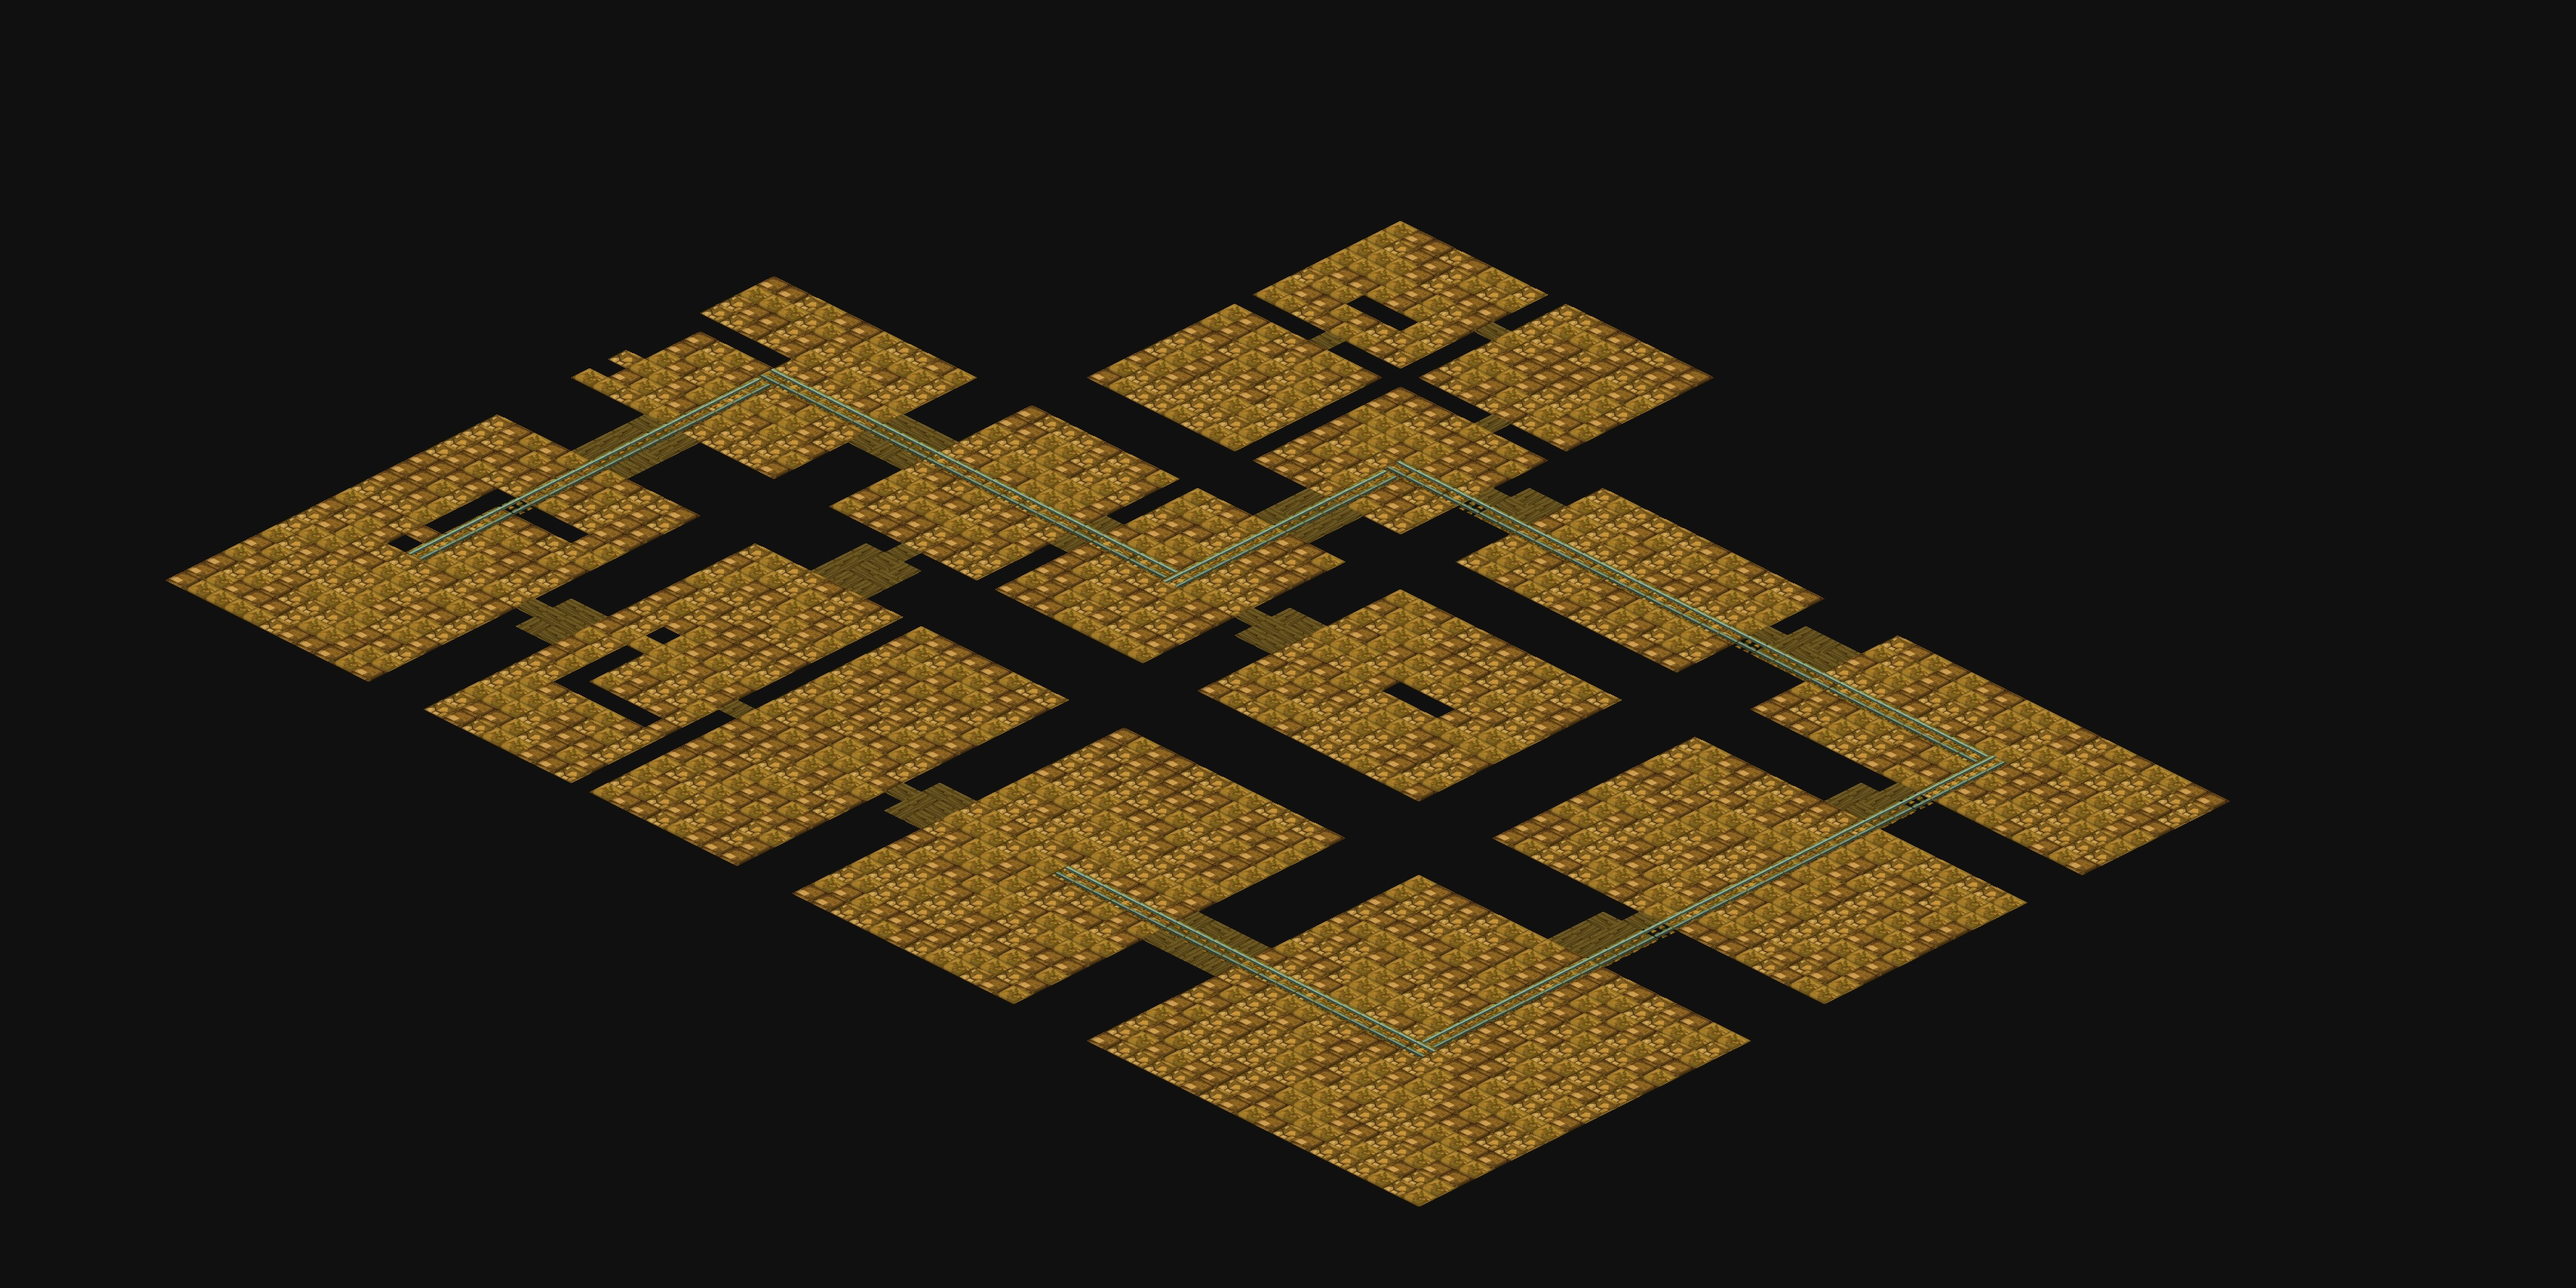
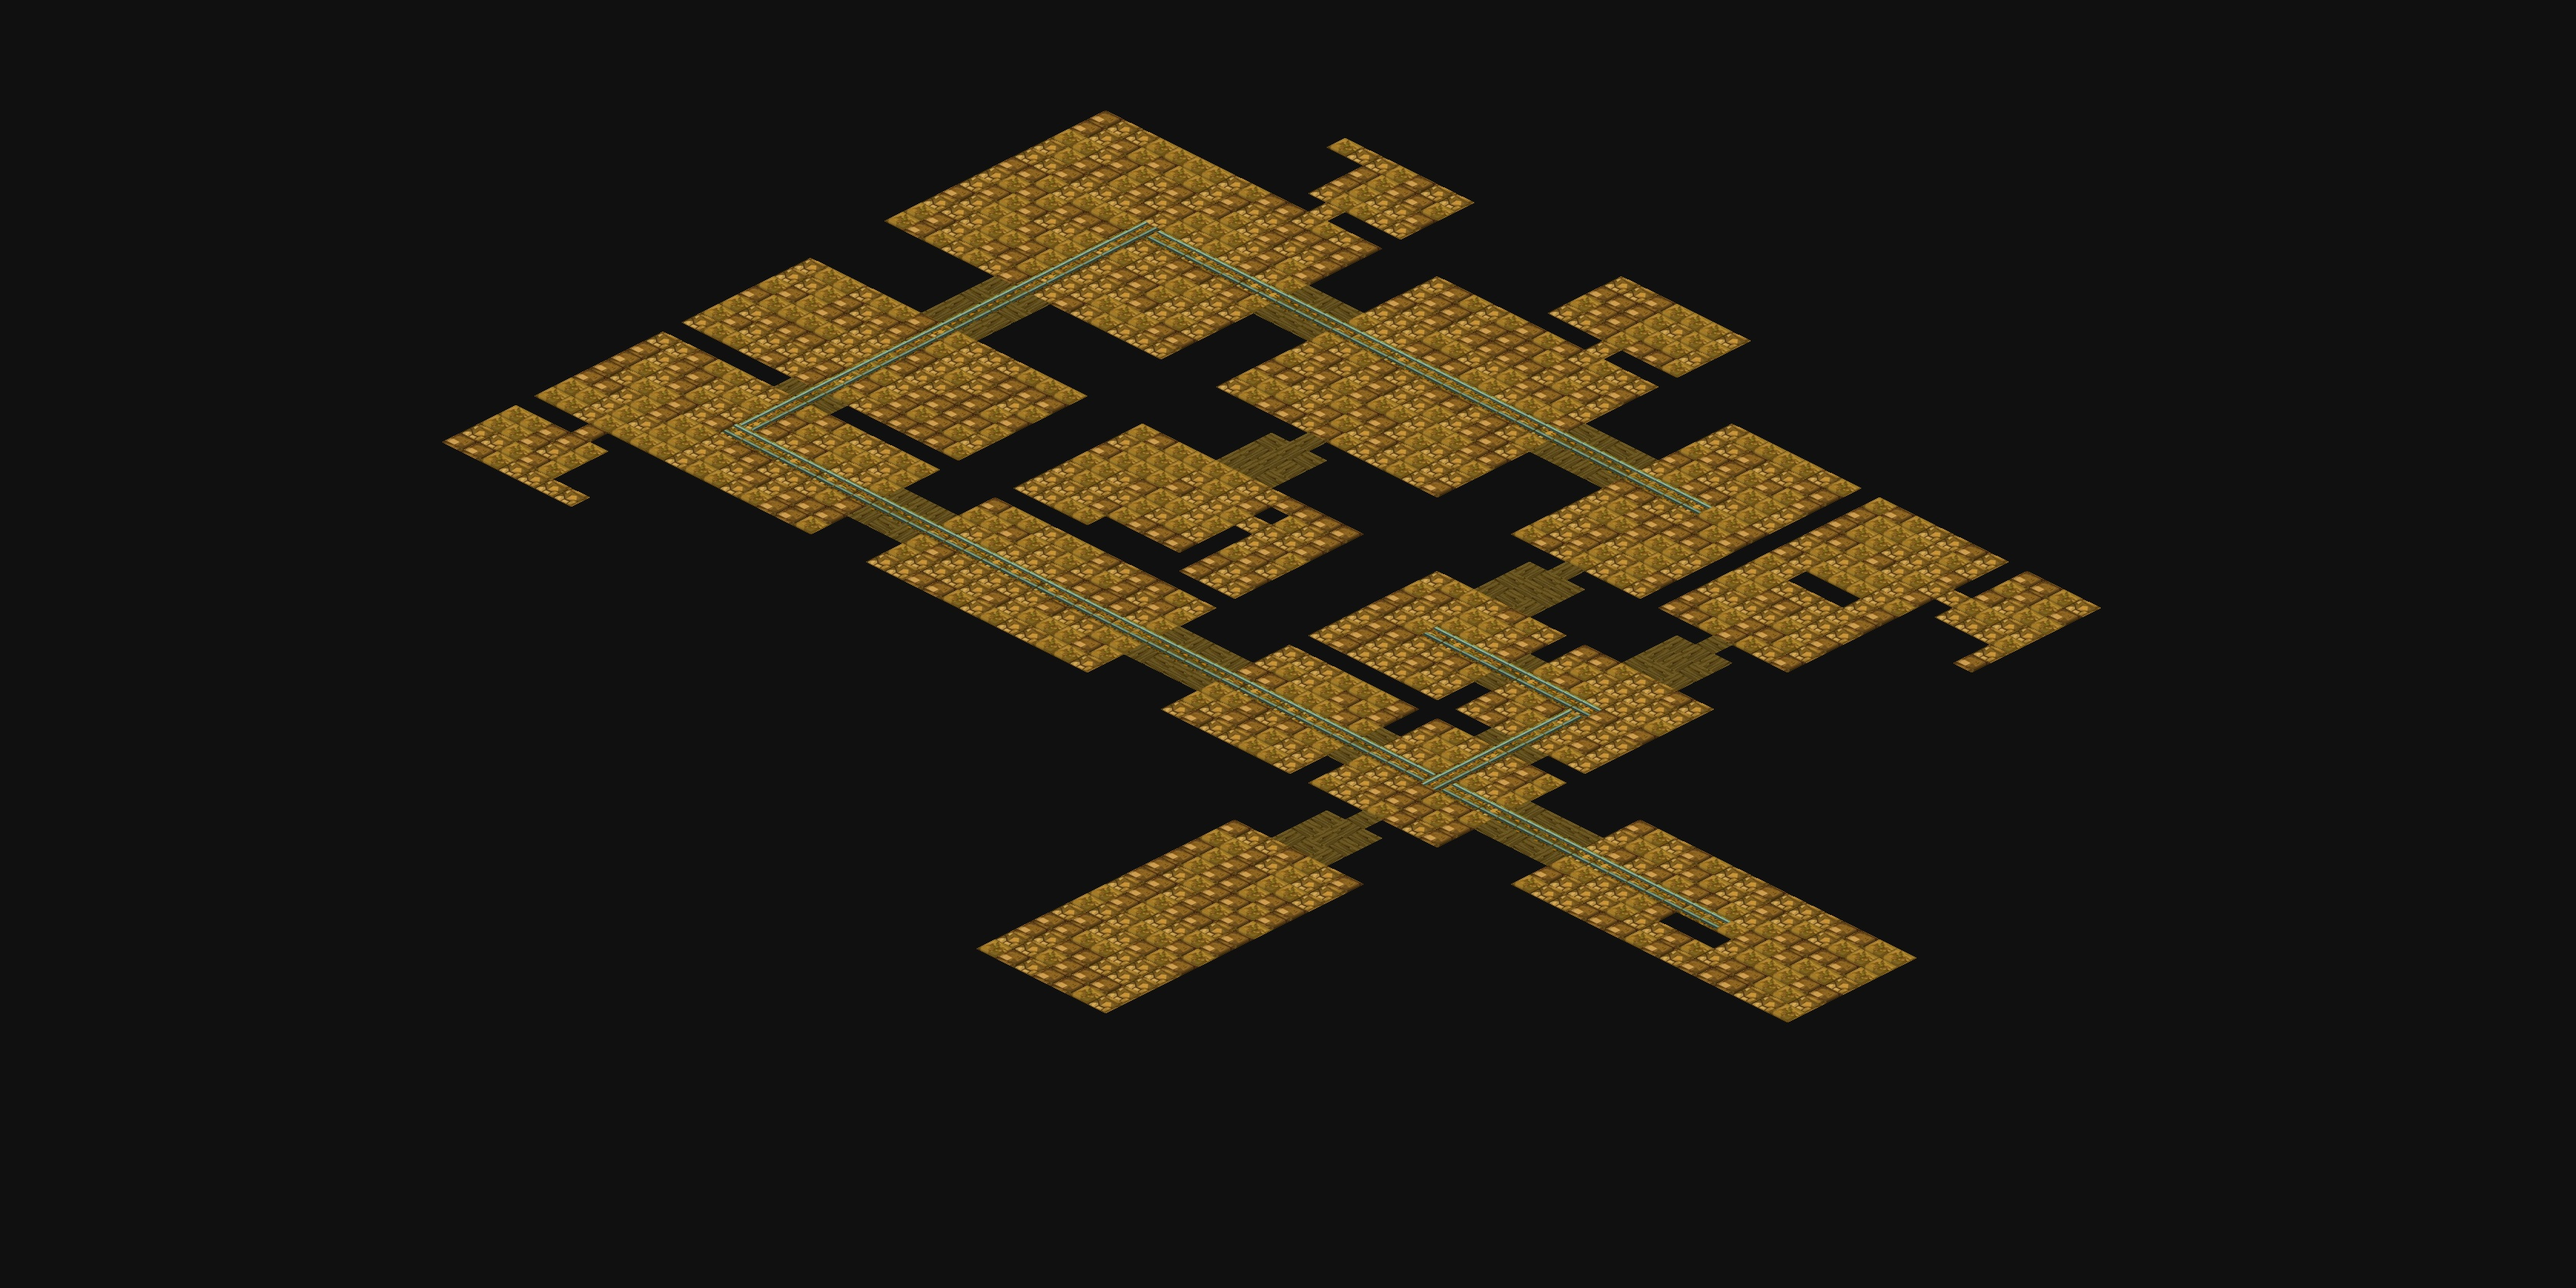
drawn tracks in line with corridors

Changed region(s): [[0.062, 0.093, 0.868, 0.9297]]

diff --git a/site/htdocs/game-world/generateCircularDungeonMap.php b/site/htdocs/game-world/generateCircularDungeonMap.php
@@ -40,13 +40,25 @@ font-family:arial,helvetica,sans-serif;font-size:14px;
     margin: 0 1.25% 2.5% 1.25%;
 }
 
+.sequenceBlock p {
+    padding: 0;
+    margin: 0;
+}
+
+.clearer {
+    width: 100%;
+    clear: both;
+}
+
 .wider {
     width: 97.5%;
 }
 
+/*
 .sequenceBlock:nth-child(4n+1) {
     clear: left;
 }
+*/
 
 img {
     display: block;
@@ -569,6 +581,7 @@ function growGrammar($thisGrammar, $iterations)
     $currentKey = 0;
 
 if($proceduralDebug) {
+    echo '<div class="clearer"></div>';
     echo '<div class="sequenceBlock"><p>start grammar: ' . htmlentities($thisGrammar) . '<br>';
 }
     for ($i = 0; $i < $iterations; $i++) {
@@ -1210,7 +1223,7 @@ if(isset($firstNewNode)) {
 
     } else {
         if($proceduralDebug) {
-        echo "<br>Didn't find path<br>";
+        echo '<div class="sequenceBlock"><p>Couldn\'t find path through the Delaunay graph.</p></div>';
     }
     }
     return $targetFound;
@@ -1391,7 +1404,7 @@ function plotConnectivityOnDelaunayGraph()
     } while (($connectionsRemainingToBePlotted > 0) && ($foundUnusedVertex));
     if (!$foundUnusedVertex) {
         if($proceduralDebug) {
-        echo "FAILED... RESTARTING...<br>";
+        echo '<div class="sequenceBlock"><p>Failed to find connections on the Delaunay graph.<br>RESTARTING&hellip;</p></div>';
     
     }
     }
@@ -2634,7 +2647,7 @@ echo '<div class="sequenceBlock">';
             $isUniquePerLevel = $templateJSON['template']['uniquePerLevel'];
 
             if($proceduralDebug) {
-                echo "trying to place template ".$templatesToUse[$i]." ";
+                echo "trying to place (".$templateType.") template ".$templatesToUse[$i]." ";
             }
 
 
@@ -3165,7 +3178,7 @@ function gridHLine($xp, $yp, $w) {
 
 
 function createTileGrid() {
-    global $requiredWidth, $requiredHeight, $proceduralMapTilesX, $proceduralMapTilesY, $canvaDimension, $delaunayVertices, $minLeft, $minTop, $edgesUsedOnDelaunayGraph, $allDelaunayEdges, $lockedJoints, $keyColours, $proceduralDebug, $proceduralMap, $itemMap, $drawnTileDoors, $drawnTileKeys, $drawnTileRooms, $entranceX, $entranceY, $exitX, $exitY, $dungeonDetails, $dungeonName, $jointList, $nodeList, $verticesUsedOnDelaunayGraph;
+    global $requiredWidth, $requiredHeight, $proceduralMapTilesX, $proceduralMapTilesY, $canvaDimension, $delaunayVertices, $minLeft, $minTop, $edgesUsedOnDelaunayGraph, $allDelaunayEdges, $lockedJoints, $keyColours, $proceduralDebug, $proceduralMap, $itemMap, $drawnTileDoors, $drawnTileKeys, $drawnTileRooms, $entranceX, $entranceY, $exitX, $exitY, $dungeonDetails, $dungeonName, $jointList, $nodeList, $verticesUsedOnDelaunayGraph, $ratio;
     // define the tile area to be used:
     $proceduralMapTilesX = 70;
     $proceduralMapTilesY = 70;
@@ -3309,7 +3322,7 @@ switch ($dungeonDetails[$dungeonName]['roomType']) {
     case "adjoining-rooms":
         foreach($allDelaunayEdges as $thisEdge) {
          if ((in_array(new delaunayEdge($thisEdge->v0, $thisEdge->v1), $edgesUsedOnDelaunayGraph)) || (in_array(new delaunayEdge($thisEdge->v1, $thisEdge->v0), $edgesUsedOnDelaunayGraph))) {
-        echo $thisEdge->v0->whichNode->name . " to ". $thisEdge->v1->whichNode->name ."<hr>";
+       
 $leftEdge = $thisEdge->v0->x  - $minLeft;
 $rightEdge = $thisEdge->v1->x  - $minLeft;
 $topEdge = $thisEdge->v0->y  - $minTop;
@@ -3732,7 +3745,7 @@ for ($i = 0; $i < count($drawnTileDoors); $i++) {
 
 
 function addTracks() {
-    global $allDelaunayEdges, $edgesUsedOnDelaunayGraph, $verticesUsedOnDelaunayGraph, $lockedJoints, $proceduralDebug, $drawnTileRooms, $proceduralMapTilesX, $proceduralMapTilesY, $proceduralMapTrack, $proceduralMap;
+    global $allDelaunayEdges, $edgesUsedOnDelaunayGraph, $verticesUsedOnDelaunayGraph, $lockedJoints, $proceduralDebug, $drawnTileRooms, $proceduralMapTilesX, $proceduralMapTilesY, $proceduralMapTrack, $proceduralMap, $dungeonDetails, $dungeonName, $minLeft, $minTop, $ratio, $requiredWidth, $requiredHeight;
 
             // find all unlocked edges:
 
@@ -3834,6 +3847,7 @@ foreach($allDelaunayEdges as $thisEdge) {
         } while (count($nodesToCheck)>0);
     }
     
+    /*
     if($proceduralDebug) {
         echo '<div class="sequenceBlock">';
         echo "longest unlocked sequence found:<br>";
@@ -3842,15 +3856,7 @@ foreach($allDelaunayEdges as $thisEdge) {
         }
         echo "</div>";
     }
-    
-
-
-
-
-
-
-
-
+    */
 
 
 // track drawing should use the same corridor code from createTileGrid so that they're in the centre of corridors
@@ -3858,90 +3864,98 @@ foreach($allDelaunayEdges as $thisEdge) {
 
 
 
-
-
-
-
-
-
-
-
-
-
-
-    // find centre of these rooms and plot the track:
-    
-    $trackRoomCentres = array();
-    foreach($longestConnectionofNodes as $thisNode) {
-        foreach($drawnTileRooms as $thisDrawnRoom) {
-            // left, top, right, bottom, name
-             if(strval($thisDrawnRoom[4]) === strval($thisNode)) {
-                $roomCentreX = floor(($thisDrawnRoom[0] + $thisDrawnRoom[2])/2);
-                $roomCentreY = floor(($thisDrawnRoom[1] + $thisDrawnRoom[3])/2);
-
-
-                /*
-                echo $thisDrawnRoom[4]." - ".$roomCentreX.", ".$roomCentreY."<br>";
-                if($thisDrawnRoom[1] % 2 == 0) {
-                    // it's even:
-                    $roomCentreY -=0.5;
-                }
-                           if($thisDrawnRoom[0] % 2 == 1) {
-                    // it's even:
-                    $roomCentreX --;
-                }
-                $roomCentreX = ceil($roomCentreX);
-                $roomCentreY = floor($roomCentreY);
-                */
-
-
-
-           
-
-                
-                array_push($trackRoomCentres, array($roomCentreX, $roomCentreY));
-            }
-        }
-    }
-
-    for ($i = 0; $i < $proceduralMapTilesX; $i++) {
+   for ($i = 0; $i < $proceduralMapTilesX; $i++) {
         $proceduralMapTrack[$i] = array();
             for ($j = 0; $j < $proceduralMapTilesY; $j++) {
             array_push($proceduralMapTrack[$i], ".");
             }
         }
 
-// loop through this sequence, widen each unlocked door along the way to be 3 wide, and lay track along the middle of the route
+  $tileMapWidth = floor($requiredWidth * $ratio);
+    $tileMapHeight = floor($requiredHeight * $ratio);
+  $tileOffsetX = floor(($proceduralMapTilesX - $tileMapWidth)/2);
+    $tileOffsetY = floor(($proceduralMapTilesY - $tileMapHeight)/2);
 
-for ($i=1;$i<count($trackRoomCentres);$i++) {
-    $previousX = $trackRoomCentres[($i-1)][0];
-$previousY = $trackRoomCentres[($i-1)][1];
-    if($trackRoomCentres[$i][0] == $previousX) {
-        $start = min($previousY, $trackRoomCentres[$i][1]);
-        $end = max($previousY, $trackRoomCentres[$i][1]);
-        for ($j = $start; $j <= $end ; $j++) {
-            $proceduralMapTrack[$j][$previousX] = "|";
-            if($proceduralMap[$j][$previousX] == "d") {
-               
-                removeInnerDoor($j,$previousX);
 
+$currentNode = $longestConnectionofNodes[0];
+for ($n = 1; $n < count($longestConnectionofNodes); $n++) {
+
+// start a lot of code duplication from createTileGrid():
+
+
+switch ($dungeonDetails[$dungeonName]['roomType']) {
+    case "adjoining-rooms":
+        foreach($allDelaunayEdges as $thisEdge) {
+         if ((in_array(new delaunayEdge($thisEdge->v0, $thisEdge->v1), $edgesUsedOnDelaunayGraph)) || (in_array(new delaunayEdge($thisEdge->v1, $thisEdge->v0), $edgesUsedOnDelaunayGraph))) {
+     
+        if((($thisEdge->v0->whichNode->name == $currentNode) && ($thisEdge->v1->whichNode->name == $longestConnectionofNodes[$n])) || (($thisEdge->v1->whichNode->name == $currentNode) && ($thisEdge->v0->whichNode->name == $longestConnectionofNodes[$n]))){
+              // echo $thisEdge->v0->whichNode->name . " to ". $thisEdge->v1->whichNode->name ."<hr>";
+$leftEdge = $thisEdge->v0->x  - $minLeft;
+$rightEdge = $thisEdge->v1->x  - $minLeft;
+$topEdge = $thisEdge->v0->y  - $minTop;
+$bottomEdge = $thisEdge->v1->y  - $minTop;
+
+$leftTileEdge = floor($leftEdge * $ratio);
+$rightTileEdge = floor($rightEdge * $ratio);
+$topTileEdge = floor($topEdge * $ratio);
+$bottomTileEdge = floor($bottomEdge * $ratio);
+
+// centre the map:
+$leftTileEdge += $tileOffsetX;
+$rightTileEdge += $tileOffsetX;
+$topTileEdge += $tileOffsetY;
+$bottomTileEdge += $tileOffsetY;
+
+if($topTileEdge > $bottomTileEdge) {
+    // reverse them:
+$storedEdge = $topTileEdge;
+$topTileEdge = $bottomTileEdge;
+$bottomTileEdge = $storedEdge;
+}
+if($leftTileEdge > $rightTileEdge) {
+$storedEdge = $leftTileEdge;
+$leftTileEdge = $rightTileEdge;
+$rightTileEdge = $storedEdge;
+}
+    for ($j = $leftTileEdge; $j <= $rightTileEdge; $j++) {
+        for ($k = $topTileEdge; $k <= $bottomTileEdge; $k++) {
+            // check if this is in a room or not:
+            for ($l = 0; $l < count($drawnTileRooms); $l++) {
+                if($j>=$drawnTileRooms[$l][0]) {
+                    if($k>=$drawnTileRooms[$l][1]) {
+                        if($j<=$drawnTileRooms[$l][2]) {
+                            if($k<=$drawnTileRooms[$l][3]) {
+                                if($proceduralMap[$k][$j] != ".") {
+                                    // not already been plotted by the room, so it's a door:
+                                    removeInnerDoor($k,$j);
+                                }
+                            }
+                        }
+                    }
+                }
             }
-         
-        }
-    } else if ($trackRoomCentres[$i][1] == $previousY) {
-         $start = min($previousX, $trackRoomCentres[$i][0]);
-        $end = max($previousX, $trackRoomCentres[$i][0]);
-     for ($j = $start; $j <= $end; $j++) {
-            $proceduralMapTrack[$previousY][$j] = "-";
-                        if($proceduralMap[$previousY][$j] == "d") {
-                removeInnerDoor($previousY,$j);
+            if($topTileEdge == $bottomTileEdge) {
+$proceduralMapTrack[$k][$j] = "-";
+            } else {
+                $proceduralMapTrack[$k][$j] = "|";
             }
             
         }
     }
+}
+}
+}
+
+break;
+
+case "cavern":
+// how to find track path through cavern corridors? #####
+break;
 
 }
-    
+// end code from createTileGrid
+$currentNode = $longestConnectionofNodes[$n];
+}
 
     outputTileTrackMap();
 
